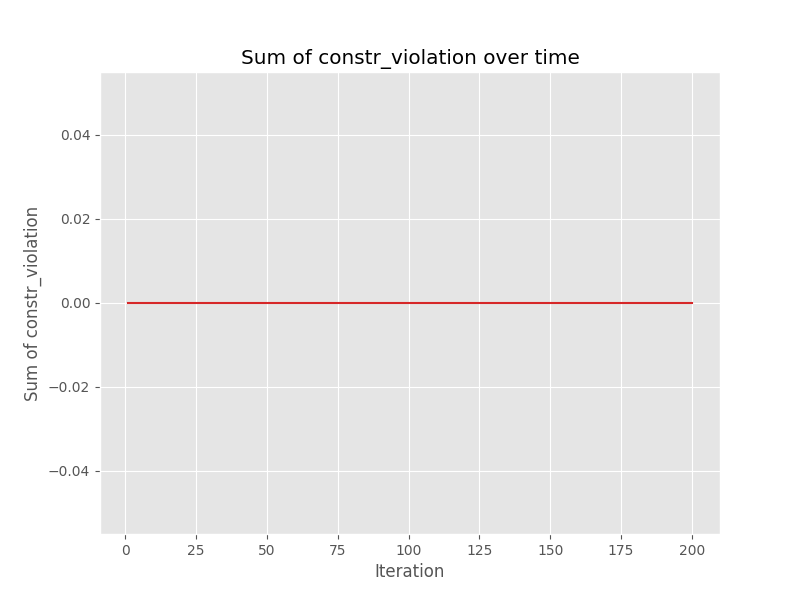
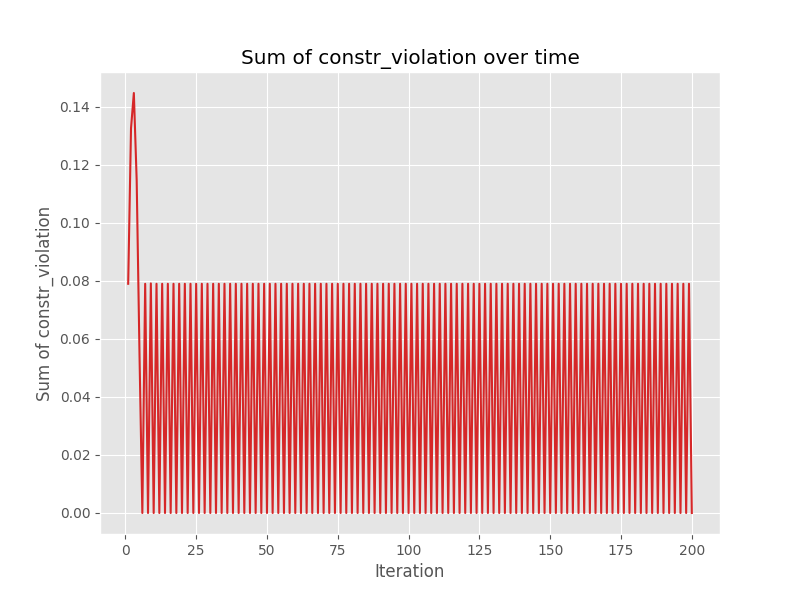
compiles but weird numbers

diff --git a/DAG/lib.py b/DAG/lib.py
@@ -134,7 +134,10 @@ def update_lambda(players, step_size):
 
         # Gradient ascent on lambda
 
-        player.l = max(0,player.l + step_size * constraint_function)
+        """ these two are from the merge conflict"""
+        # player.l = max(0,player.l + step_size * constraint_function)
+        player.l = max(0,player.l + step_size * constraint_function - 2*0.0001*player.l)
+
         #print(f"{player.name}'s lambda = ", player.l)
 
 def calculate_nash_gap(G, players):
@@ -147,14 +150,16 @@ def calculate_nash_gap(G, players):
 def player_nash_gap(G, player, exp_visitation):
     self_load = single_expected_load(player.G, player.strategy, player.paths)
     rest_load = {key: exp_visitation[key] - self_load[key] for key in exp_visitation.keys()}
-     
+
+    hypothetical_dict = total_effective_congestion({edge : load + 1 for edge, load in rest_load.items()})
+
     # pure_strategy_cost is a vector containing [f(x_1), f(x_2), ..., f(x_5)]
     # each entry is the cost for pure strategy i
     pure_strategy_cost = [None for _ in player.paths]
     for i in range(len(player.paths)):
         cost = 0
         for edge in player.to_edge_list(player.paths[i]):
-            cost += 1 + rest_load[edge]
+            cost += hypothetical_dict[edge]
         pure_strategy_cost[i] = cost
 
     # same but for gas
@@ -178,8 +183,16 @@ def player_nash_gap(G, player, exp_visitation):
         print('linear program was non-feasible somehow? exiting')
         sys.exit(-1)
 
-    return opt.fun
-        player.l = max(0,player.l + step_size * constraint_function - 2*0.0001*player.l)
+    # now calculate the actual congestion experienced by this player
+    actual_congestion = 0
+    effective_congestion_dict = total_effective_congestion(exp_visitation)
+    for i in range(len(player.paths)):
+        path_congestion = 0
+        for edge in player.to_edge_list(player.paths[i]):
+            path_congestion += effective_congestion_dict[edge]
+        actual_congestion += player.strategy[i] * path_congestion
+
+    return actual_congestion - opt.fun
        
 def gradient_descent(G, players, x_stepsize):
 
@@ -203,57 +216,6 @@ def f(G, players):
     for cong in congestion_dict.values():
         cong_sum += cong
     return cong_sum
-
-def calculate_nash_gap(G, players):
-    nash_gaps = {}
-
-    # For each player
-    for player_name, player in players.items():
-
-        #print("Current lambdas = ",player.l)
-
-        # Get the current utility for the player
-        current_utility = f(G, players) + player.l * (sum(player.strategy * np.array(player.path_lengths)) - player.gas) - 2*0.0001*player.l
-
-        # Define the objective function for the optimization problem
-        def objective(x_i):
-
-            # Update player's strategy with x_i
-            player.strategy = x_i
-
-            # Calculate utility with new strategy
-            new_utility = f(G, players) + player.l * (sum(player.strategy * np.array(player.path_lengths)) - player.gas)- 2*0.0001*player.l
-            
-            # Return -new_utility for minimization problem
-            return -new_utility
-
-        # Define the constraints for the optimization problem
-        constraints = ({'type': 'ineq', 'fun': lambda x_i: sum(x_i * np.array(player.path_lengths) - player.gas)},
-                       {'type': 'eq', 'fun': lambda x_i: sum(x_i) - 1}) # the strategy should sum up to 1 
-
-        # Define the bounds for the optimization problem
-        bounds = [(0, 1)] * len(player.strategy)
-
-        # Define the initial guess for the optimization problem
-        x0 = [0.25,0.25,0.25,0.25,0]#player.strategy
-        #print("x0 = ",x0)
-
-        # Solve the optimization problem
-        #print(player.gas)
-        res = minimize(objective, x0, constraints=constraints, bounds=bounds)
-        print(res)
-
-        print("Current Utility = ",current_utility)
-        print("Solution = ",-res.fun)
-        sys.exit(0)
-        
-        # Calculate the Nash Gap for the player
-        nash_gap = -res.fun - current_utility
-
-        # Store the Nash Gap in the dictionary
-        nash_gaps[player_name] = nash_gap
-
-    return nash_gaps
 
 class Player:
 
@@ -283,6 +245,9 @@ class Player:
         self.strategy = np.array([x / sum_strategy for x in self.strategy])
         self.strategy = np.array([1,0,0,0,0])
 
+    def to_edge_list(self,path):
+        return [(path[i], path[i+1]) for i in range(len(path) - 1)]
+
     def primal_gradient(self,exp_visitation):
 
         self_load = single_expected_load(self.G, self.strategy, self.paths)        
@@ -291,7 +256,7 @@ class Player:
         cong_sums = 0
         for i in congestion_dict.values():
             cong_sums += i
-        print(cong_sums)
+        # print(cong_sums)
 
         primal_gradient = [self.congestion_of_path(path, congestion_dict) for path in self.paths]
         #primal_gradient_normalized = primal_gradient / np.linalg.norm(primal_gradient)

diff --git a/DAG/gdmax.py b/DAG/gdmax.py
@@ -51,12 +51,8 @@ if not os.path.exists('frames'):
 
 for t in range(t_iterates):
 
-    players_copy = copy.deepcopy(players)
-    sum_gaps = 0
-    nash_gap_dict = calculate_nash_gap(G, players_copy)
-    for elems in nash_gap_dict.values():
-        sum_gaps += elems
-    gaps.append(sum_gaps)
+    print(calculate_nash_gap(G, players))
+    gaps.append(calculate_nash_gap(G, players))
 
     print(f"Starting Iteration {t+1}/{t_iterates}")
 
@@ -67,8 +63,6 @@ for t in range(t_iterates):
 
     # Run a gradient descent step on Psi
     gradient_descent(G, players, x_stepsize)
-
-    print(calculate_nash_gap(G, players))
 
     # Include this part after policy update:
     # After each gradient descent step, plot the strategy of each player
